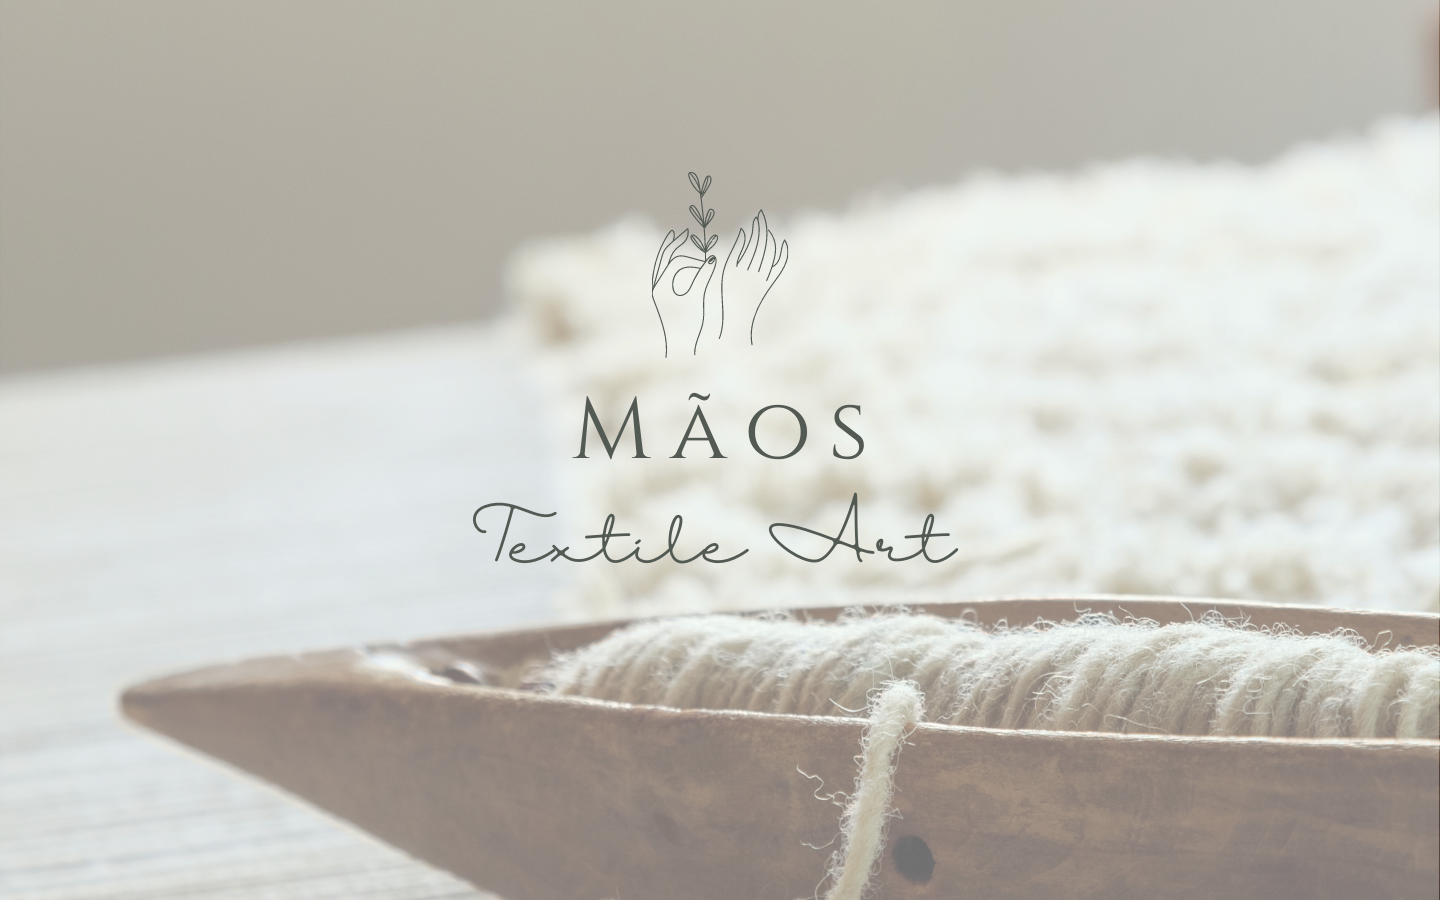
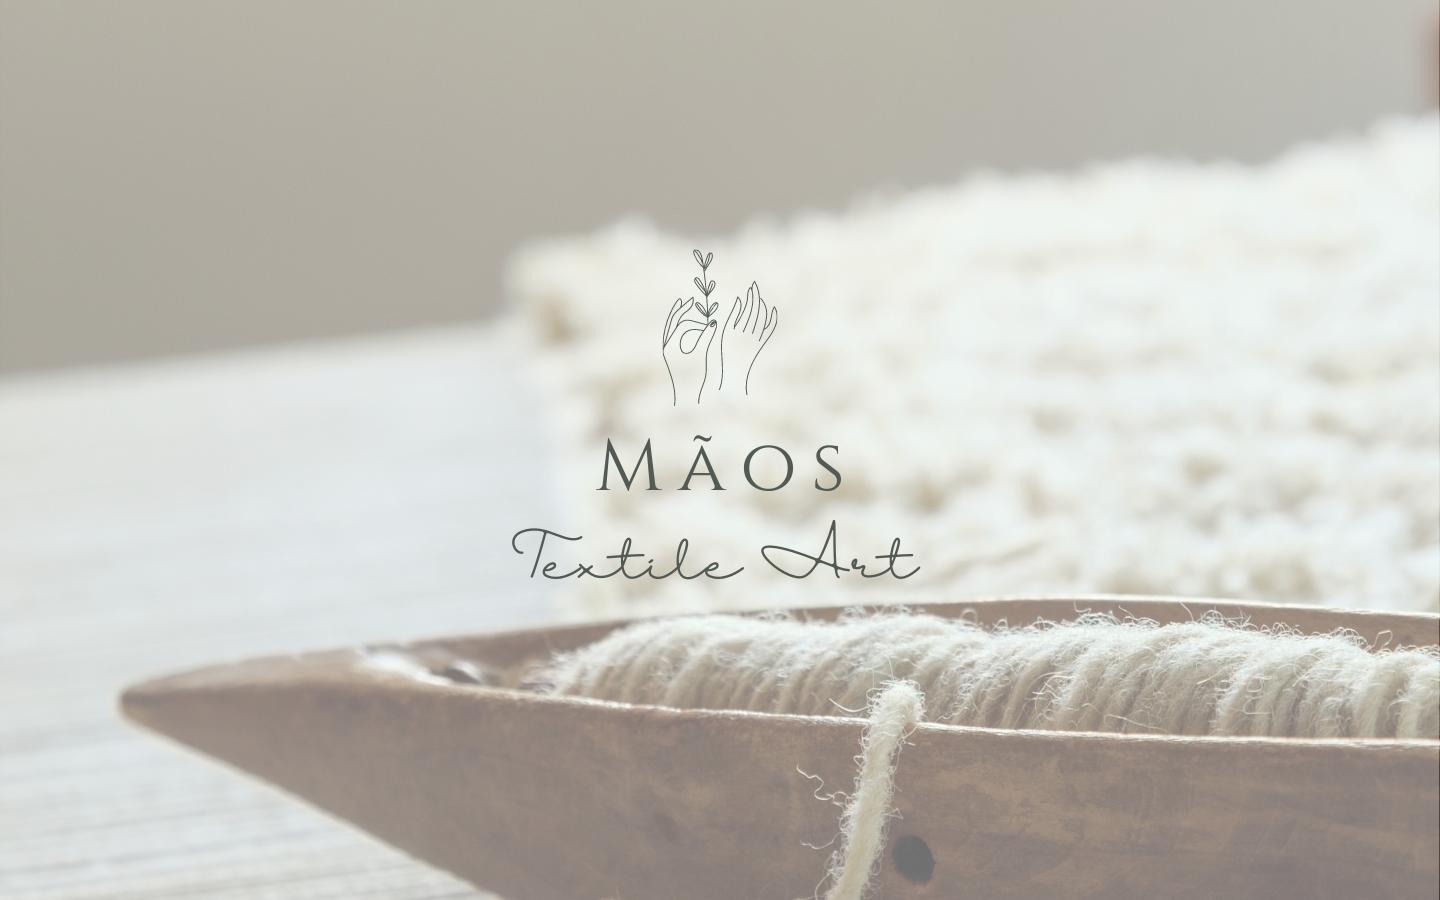
Adjusted responsiveness

Changed region(s): [[0.3125, 0.4356, 0.6562, 0.6533], [0.4375, 0.1867, 0.5625, 0.4044]]

diff --git a/about.html b/about.html
@@ -3,6 +3,9 @@
 <head>
     <meta charset="UTF-8">
     <meta name="viewport" content="width=device-width, initial-scale=1.0">
+    <meta name="description"
+        content="Learn more about the artist behind MÃOS Textile Art. Clara Davies is a Textile Artist from Brazil based in Portugal.">
+
     <title>About MÃOS Textile Art</title>
     <link href="https://cdn.jsdelivr.net/npm/bootstrap@5.0.2/dist/css/bootstrap.min.css" rel="stylesheet"
         integrity="sha384-EVSTQN3/azprG1Anm3QDgpJLIm9Nao0Yz1ztcQTwFspd3yD65VohhpuuCOmLASjC" crossorigin="anonymous">
@@ -18,9 +21,9 @@
     <link rel="stylesheet" href="/source/style.css">
 </head>
 <body>
-    <nav class="navbar navbar-expand-lg navbar-light bg-transparent">
+    <nav class="navbar navbar-expand-lg navbar-light bg-transparent navbar-maos">
         <div class="container-fluid">
-            <a class="navbar-brand" href="/">MÃOS Textile Art</a>
+            <a class="navbar-brand" href="/" title="homepage">MÃOS Textile Art</a>
             <button class="navbar-toggler" type="button" data-bs-toggle="collapse" data-bs-target="#navbarNav"
                 aria-controls="navbarNav" aria-expanded="false" aria-label="Toggle navigation">
                 <span class="navbar-toggler-icon"></span>
@@ -28,16 +31,16 @@
             <div class="collapse navbar-collapse" id="navbarNav">
                 <ul class="navbar-nav">
                     <li class="nav-item">
-                        <a class="nav-link" aria-current="page" href="/">Home</a>
+                        <a class="nav-link" aria-current="page" href="/" title="homepage">Home</a>
                     </li>
                     <li class="nav-item">
-                        <a class="nav-link active" href="/about.html">About</a>
+                        <a class="nav-link active" href="/about.html" title="About">About</a>
                     </li>
                     <li class="nav-item">
-                        <a class="nav-link" href="/portfolio.html">Portfolio</a>
+                        <a class="nav-link" href="/portfolio.html" title="Portfolio">Portfolio</a>
                     </li>
                     <li class="nav-item">
-                        <a class="nav-link" href="/contact.html">Contact</a>
+                        <a class="nav-link" href="/contact.html" title="Contact">Contact</a>
                     </li>
                 </ul>
             </div>
@@ -53,14 +56,14 @@
             <div class="col-lg-6">
                 <img src="/images/weaver-clara-davies.JPG" class="img-fluid rounded img-about" alt="Textile Artist Clara Davies">
             </div>
-            <div class="col-lg-6 align-self-center mb-5 about-description">
+            <div class="col-lg-6 align-self-center about-description">
                 <h1>
                     Clara Davies
                 </h1>
                 <h3 class="mt-3 mb-3">
                     Textile artist based in Portugal.
                 </h3>
-                <p class="mb-5 text-muted">
+                <p class="text-muted">
                     My corporate job is in the tourism industry. Working with remote lodgings in Latin America gave me the chance to discover the
                     beauty of weaving in traditional villages of the Andes.
                     <br />
@@ -69,14 +72,14 @@
                     many projects for my own home, I started selling them and created MÃOS in 2020.
                 </p>
             </div>
-        <div class="text-center mt-5">
-            <a href="/contact.html" class="btn sm-shadow primary-button mt-4">CONTACT ME</a>
+        </div>
+        <div class="text-center mt-5 contact-button">
+            <a href="/contact.html" class="btn sm-shadow primary-button mt-3">CONTACT ME</a>
             <div class="mt-4 social-icons">
                 <a href="https://www.facebook.com/maostextileart" target="_blank"><i class="fab fa-facebook-f"></i></a>
                 <a href="https://www.instagram.com/maostextileart/" target="_blank"><i class="fab fa-instagram ms-3"></i></a>
             </div>
         </div>    
-        </div>
         <div class="row mt-2">
             <div class="col-lg-4 mt-4">
                 <img src="/images/handwoven-wall-hanging-maos-conceicao.jpg" class="img-fluid rounded" alt="Handwoven wall art">
@@ -89,7 +92,7 @@
             </div>
         </div>
         <div class="mt-5 text-center">
-            <a href="/portfolio.html" class="btn sm-shadow primary-button mt-5">CHECK MY PORTFOLIO</a>
+            <a href="/portfolio.html" class="btn sm-shadow primary-button mt-3">CHECK MY PORTFOLIO</a>
         </div>
     </div>
     <div class="container">
@@ -98,9 +101,11 @@
                 MÃOS Textile Art
             </p>
             <div class="footer-icons">
-                <a href="https://www.facebook.com/maostextileart" target="_blank"><i class="fab fa-facebook-f ms-4"></i></a>
-                <a href="https://www.instagram.com/maostextileart/" target="_blank"><i class="fab fa-instagram ms-4"></i></a>
-                <a href="#"><i class="fab fa-youtube ms-4"></i></a>
+                <a href="https://www.facebook.com/maostextileart" target="_blank" title="Facebook"><i
+                        class="fab fa-facebook-f ms-4"></i></a>
+                <a href="https://www.instagram.com/maostextileart/" target="_blank" title="Instagram"><i
+                        class="fab fa-instagram ms-4"></i></a>
+                <a href="https://www.youtube.com/" title="YouTube"><i class="fab fa-youtube ms-4"></i></a>
             </div>
             <p class="d-none d-md-block">
                 2021 All rights reserved.

diff --git a/index.html b/index.html
@@ -3,6 +3,8 @@
 <head>
     <meta charset="UTF-8">
     <meta name="viewport" content="width=device-width, initial-scale=1.0">
+    <meta name="description"
+        content="This is the portfolio of MÃOS Textile Art, handmade wall art made in Portugal combining natural materials, natural dyed colors and unique elements from nature.">
     <title>MÃOS Textile Art</title>
     <link href="https://cdn.jsdelivr.net/npm/bootstrap@5.0.2/dist/css/bootstrap.min.css" rel="stylesheet"
         integrity="sha384-EVSTQN3/azprG1Anm3QDgpJLIm9Nao0Yz1ztcQTwFspd3yD65VohhpuuCOmLASjC" crossorigin="anonymous">
@@ -19,7 +21,7 @@
 <body>
     <nav class="navbar navbar-expand-lg navbar-light bg-transparent navbar-maos">
         <div class="container-fluid">
-            <a class="navbar-brand" href="/">MÃOS Textile Art</a>
+            <a class="navbar-brand" href="/" title="homepage">MÃOS Textile Art</a>
             <button class="navbar-toggler" type="button" data-bs-toggle="collapse" data-bs-target="#navbarNav"
                 aria-controls="navbarNav" aria-expanded="false" aria-label="Toggle navigation">
                 <span class="navbar-toggler-icon"></span>
@@ -27,16 +29,16 @@
             <div class="collapse navbar-collapse" id="navbarNav">
                 <ul class="navbar-nav">
                     <li class="nav-item">
-                        <a class="nav-link active" aria-current="page" href="/">Home</a>
+                        <a class="nav-link active" aria-current="page" href="/" title="homepage">Home</a>
                     </li>
                     <li class="nav-item">
-                        <a class="nav-link" href="/about.html">About</a>
+                        <a class="nav-link" href="/about.html" title="About">About</a>
                     </li>
                     <li class="nav-item">
-                        <a class="nav-link" href="/portfolio.html">Portfolio</a>
+                        <a class="nav-link" href="/portfolio.html" title="Portfolio">Portfolio</a>
                     </li>
                     <li class="nav-item">
-                        <a class="nav-link" href="/contact.html">Contact</a>
+                        <a class="nav-link" href="/contact.html" title="Contact">Contact</a>
                     </li>
                 </ul>
             </div>
@@ -51,7 +53,7 @@
             <p class="mt-3 mb-4 text-muted">
                 Made in Portugal combining natural materials, natural dyed colors and unique elements from nature.
             </p>
-            <a href="/about.html" class="btn sm-shadow primary-button">ABOUT</a>
+            <a href="/about.html" class="sm-shadow primary-button" title="About">ABOUT</a>
         </div>
         <div class="container description-section">
             <div class="row">
@@ -95,16 +97,16 @@
             </div>
         </div>
         <div class="text-center mt-3 mb-5">
-            <a href="/portfolio.html" class="btn sm-shadow primary-button">PORTFOLIO</a>
+            <a href="/portfolio.html" class="btn sm-shadow primary-button" title="Portfolio">PORTFOLIO</a>
         </div>
         <footer class="d-flex justify-content-between footer">
             <p>
                 MÃOS Textile Art
             </p>
             <div>
-                <a href="https://www.facebook.com/maostextileart" target="_blank"><i class="fab fa-facebook-f ms-4"></i></a>
-                <a href="https://www.instagram.com/maostextileart/" target="_blank"><i class="fab fa-instagram ms-4"></i></a>
-                <a href="#"><i class="fab fa-youtube ms-4"></i></a>
+                <a href="https://www.facebook.com/maostextileart" target="_blank" title="Facebook"><i class="fab fa-facebook-f ms-4"></i></a>
+                <a href="https://www.instagram.com/maostextileart/" target="_blank" title="Instagram"><i class="fab fa-instagram ms-4"></i></a>
+                <a href="https://www.youtube.com/" title="YouTube"><i class="fab fa-youtube ms-4"></i></a>
             </div>
             <p class="d-none d-md-block">
                 2021 All rights reserved.

diff --git a/contact.html b/contact.html
@@ -3,7 +3,9 @@
 <head>
     <meta charset="UTF-8">
     <meta name="viewport" content="width=device-width, initial-scale=1.0">
-    <title>Contact | MÃOS Textile Art</title>
+    <meta name="description"
+        content="Contact MÃOS Textile Art and get to know our work. Handmade in Portugal combining natural materials, natural dyed colors and unique elements from nature.">
+    <title>Contact MÃOS Textile Art</title>
     <link href="https://cdn.jsdelivr.net/npm/bootstrap@5.0.2/dist/css/bootstrap.min.css" rel="stylesheet"
         integrity="sha384-EVSTQN3/azprG1Anm3QDgpJLIm9Nao0Yz1ztcQTwFspd3yD65VohhpuuCOmLASjC" crossorigin="anonymous">
     <script src="https://cdn.jsdelivr.net/npm/bootstrap@5.0.2/dist/js/bootstrap.bundle.min.js"
@@ -17,11 +19,10 @@
     <script src="https://kit.fontawesome.com/8db1f04c1e.js" crossorigin="anonymous"></script>
     <link rel="stylesheet" href="/source/style.css">
 </head>
-    
 <body>
-    <nav class="navbar navbar-expand-lg navbar-light bg-transparent">
+    <nav class="navbar navbar-expand-lg navbar-light bg-transparent navbar-maos">
         <div class="container-fluid">
-            <a class="navbar-brand" href="/">MÃOS Textile Art</a>
+            <a class="navbar-brand" href="/" title="homepage">MÃOS Textile Art</a>
             <button class="navbar-toggler" type="button" data-bs-toggle="collapse" data-bs-target="#navbarNav"
                 aria-controls="navbarNav" aria-expanded="false" aria-label="Toggle navigation">
                 <span class="navbar-toggler-icon"></span>
@@ -29,16 +30,16 @@
             <div class="collapse navbar-collapse" id="navbarNav">
                 <ul class="navbar-nav">
                     <li class="nav-item">
-                        <a class="nav-link" aria-current="page" href="/">Home</a>
+                        <a class="nav-link" aria-current="page" href="/" title="homepage">Home</a>
                     </li>
                     <li class="nav-item">
-                        <a class="nav-link" href="/about.html">About</a>
+                        <a class="nav-link" href="/about.html" title="About">About</a>
                     </li>
                     <li class="nav-item">
-                        <a class="nav-link" href="/portfolio.html">Portfolio</a>
+                        <a class="nav-link" href="/portfolio.html" title="Portfolio">Portfolio</a>
                     </li>
                     <li class="nav-item">
-                        <a class="nav-link active" href="/contact.html">Contact</a>
+                        <a class="nav-link active" href="/contact.html" title="Contact">Contact</a>
                     </li>
                 </ul>
             </div>
@@ -63,9 +64,11 @@
                 MÃOS Textile Art
             </p>
             <div class="footer-icons">
-                <a href="https://www.facebook.com/maostextileart" target="_blank"><i class="fab fa-facebook-f ms-4"></i></a>
-                <a href="https://www.instagram.com/maostextileart/" target="_blank"><i class="fab fa-instagram ms-4"></i></a>
-                <a href="#"><i class="fab fa-youtube ms-4"></i></a>
+                <a href="https://www.facebook.com/maostextileart" target="_blank" title="Facebook"><i
+                        class="fab fa-facebook-f ms-4"></i></a>
+                <a href="https://www.instagram.com/maostextileart/" target="_blank" title="Instagram"><i
+                        class="fab fa-instagram ms-4"></i></a>
+                <a href="https://www.youtube.com/" title="YouTube"><i class="fab fa-youtube ms-4"></i></a>
             </div>
             <p class="d-none d-md-block">
                 2021 All rights reserved.

diff --git a/portfolio.html b/portfolio.html
@@ -3,9 +3,10 @@
 <head>
     <meta charset="UTF-8">
     <meta name="viewport" content="width=device-width, initial-scale=1.0">
-    <title>Portfolio | MÃOS Textile Art</title>
+    <title>Portfolio MÃOS Textile Art</title>
     <meta charset="UTF-8">
     <meta name="viewport" content="width=device-width, initial-scale=1.0">
+    <meta name="description" content="Get to know the art work of MÃOS Textile Art. Made in Portugal combining natural materials, natural dyed colors and unique elements from nature.">
     <title>MÃOS Textile Art</title>
     <link href="https://cdn.jsdelivr.net/npm/bootstrap@5.0.2/dist/css/bootstrap.min.css" rel="stylesheet"
         integrity="sha384-EVSTQN3/azprG1Anm3QDgpJLIm9Nao0Yz1ztcQTwFspd3yD65VohhpuuCOmLASjC" crossorigin="anonymous">
@@ -23,7 +24,7 @@
 <body>
     <nav class="navbar navbar-expand-lg navbar-light bg-transparent navbar-maos">
         <div class="container-fluid">
-            <a class="navbar-brand" href="/">MÃOS Textile Art</a>
+            <a class="navbar-brand" href="/" title="homepage">MÃOS Textile Art</a>
             <button class="navbar-toggler" type="button" data-bs-toggle="collapse" data-bs-target="#navbarNav"
                 aria-controls="navbarNav" aria-expanded="false" aria-label="Toggle navigation">
                 <span class="navbar-toggler-icon"></span>
@@ -31,16 +32,16 @@
             <div class="collapse navbar-collapse" id="navbarNav">
                 <ul class="navbar-nav">
                     <li class="nav-item">
-                        <a class="nav-link" aria-current="page" href="/">Home</a>
+                        <a class="nav-link" aria-current="page" href="/" title="homepage">Home</a>
                     </li>
                     <li class="nav-item">
-                        <a class="nav-link" href="/about.html">About</a>
+                        <a class="nav-link" href="/about.html" title="About">About</a>
                     </li>
                     <li class="nav-item">
-                        <a class="nav-link active" href="/portfolio.html">Portfolio</a>
+                        <a class="nav-link active" href="/portfolio.html" title="Portfolio">Portfolio</a>
                     </li>
                     <li class="nav-item">
-                        <a class="nav-link" href="/contact.html">Contact</a>
+                        <a class="nav-link" href="/contact.html" title="Contact">Contact</a>
                     </li>
                 </ul>
             </div>
@@ -191,13 +192,15 @@
                 MÃOS Textile Art
             </p>
             <div class="footer-icons">
-                <a href="https://www.facebook.com/maostextileart" target="_blank"><i class="fab fa-facebook-f ms-4"></i></a>
-                <a href="https://www.instagram.com/maostextileart/" target="_blank"><i class="fab fa-instagram ms-4"></i></a>
-                <a href="#"><i class="fab fa-youtube ms-4"></i></a>
+                <a href="https://www.facebook.com/maostextileart" target="_blank" title="Facebook"><i
+                        class="fab fa-facebook-f ms-4"></i></a>
+                <a href="https://www.instagram.com/maostextileart/" target="_blank" title="Instagram"><i
+                        class="fab fa-instagram ms-4"></i></a>
+                <a href="https://www.youtube.com/" title="YouTube"><i class="fab fa-youtube ms-4"></i></a>
             </div>
-            <p>
+            <p class="d-none d-md-block">
                 2021 All rights reserved.
-            </p class="d-none d-md-block">
+            </p>
         </footer>
     </div>
 </body>

diff --git a/source/style.css b/source/style.css
@@ -66,9 +66,7 @@ footer a {
 }
 
 .primary-button a :hover {
-  color: var(--primary-color);
-  background: var(--secondary-color);
-  border: 1px solid var(--primary-color);
+  color: yellow;
 }
 
 .description-section,
@@ -160,8 +158,9 @@ p {
   }
 
   .description-section,
-  .footer {
-    padding: 0px 10px;
+  .footer,
+  .portfolio-page {
+    padding: 0px 15px;
   }
 
   .description-section h2 {
@@ -187,5 +186,15 @@ p {
 
   .about-description h3 {
     padding-top: 10px;
+  }
+
+  .banner {
+    max-width: 768px;
+  }
+}
+
+@media (max-width: 375px) {
+  .banner {
+    max-width: 375px;
   }
 }
